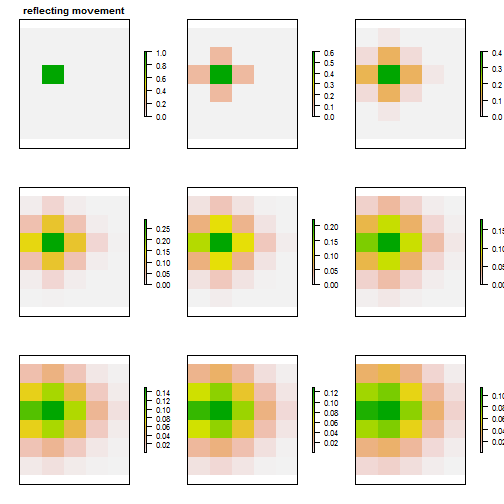
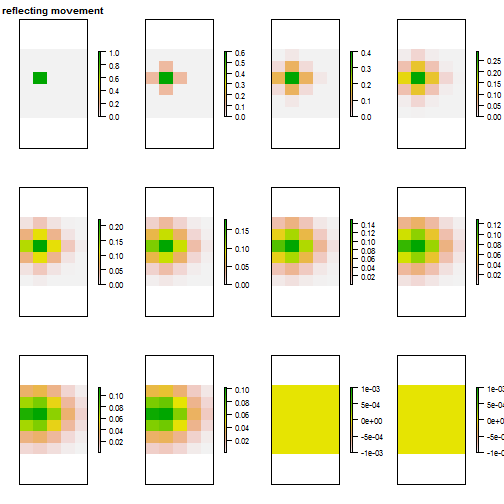
tweak post

diff --git a/_posts/2015-02-02-grid-movement.md b/_posts/2015-02-02-grid-movement.md
@@ -131,7 +131,7 @@ The movement functions shown above can be called over multiple time steps as sho
 {% highlight r %}
 nY <- 6
 nX <- 5
-nDays <- 9
+nDays <- 12
 #create arrays to store results
 aIsland <- aReflect <- array(0, dim=c(nY, nX, nDays))
  
@@ -146,17 +146,7 @@ for(day in 2:10)
   aReflect[,,day] <- rtMoveReflect(aReflect[,,day-1], pMove=pMove)
     
 }
-{% endhighlight %}
-
-
-
-{% highlight text %}
-## Error in `[<-`(`*tmp*`, , , day, value = structure(c(0.017966718, 0.043570224, : subscript out of bounds
-{% endhighlight %}
-
-
-
-{% highlight r %}
+ 
 #quick way of displaying the resulting arrays
 require(raster)
 plot( raster::brick(aIsland), axes=FALSE, main="island movement" )
